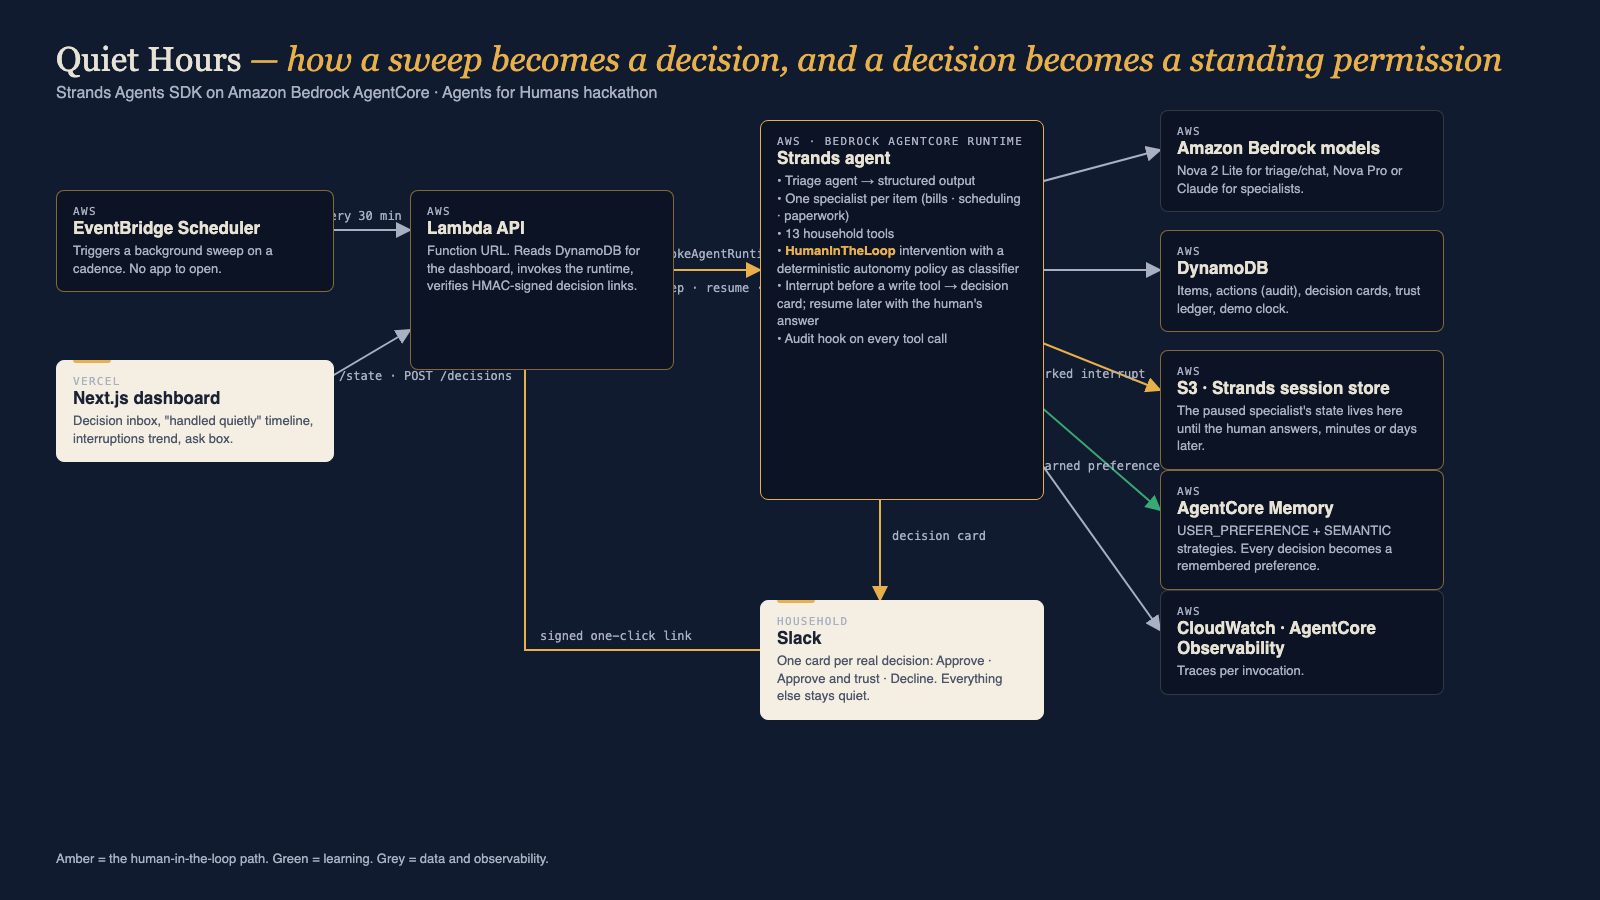
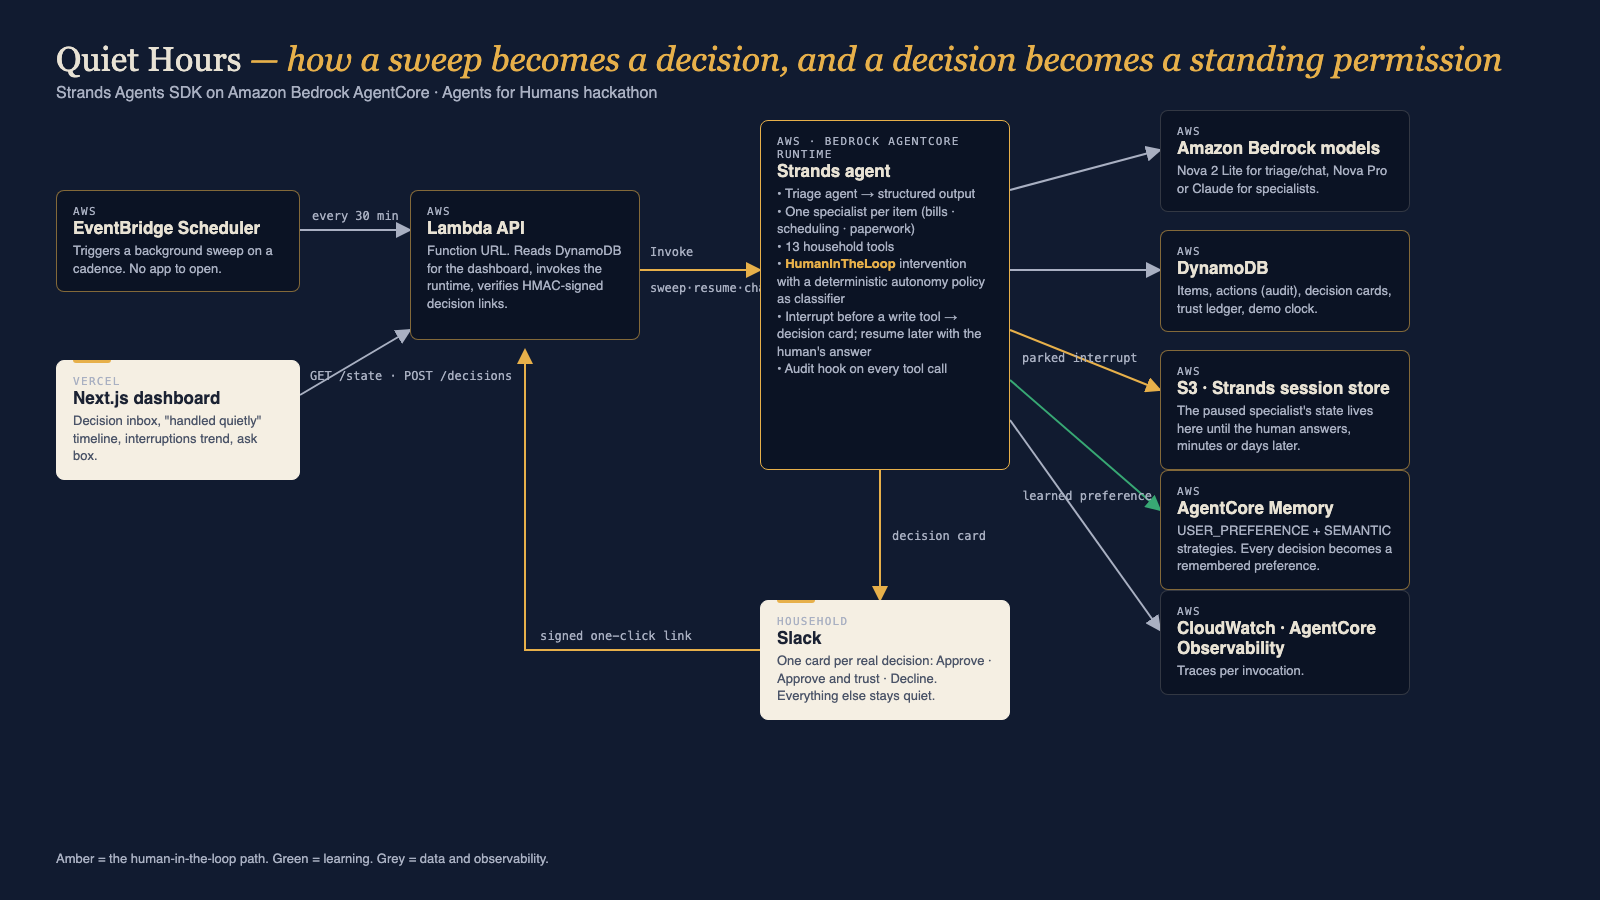
docs: architecture diagram render fixes

diff --git a/docs/diagram/architecture.html b/docs/diagram/architecture.html
@@ -5,7 +5,7 @@ body{margin:0;background:#111b30;color:#e8e2d4;font-family:"IBM Plex Sans",Helve
 h1{font-family:Georgia,serif;font-weight:500;font-size:34px;margin:0}
 h1 em{color:#e7b04a;font-style:italic}
 .sub{color:#a9b0c2;margin:6px 0 0;font-size:16px}
-.box{position:absolute;border:1px solid rgba(232,226,212,.18);border-radius:8px;padding:14px 16px;background:#0b1324}
+.box{position:absolute;box-sizing:border-box;border:1px solid rgba(232,226,212,.18);border-radius:8px;padding:14px 16px;background:#0b1324}
 .box b{display:block;font-size:17px;margin-bottom:4px}
 .box span{color:#a9b0c2;font-size:13px;line-height:1.35;display:block}
 .paper{background:#f5efe3;color:#1b2233;border-color:#f5efe3}
@@ -27,19 +27,19 @@ text{fill:#a9b0c2;font-family:"IBM Plex Mono",Menlo,monospace;font-size:12px}
  <marker id="ah" markerWidth="8" markerHeight="8" refX="7" refY="4" orient="auto"><path d="M0,0 L8,4 L0,8 z" fill="#e7b04a"/></marker>
  <marker id="ag" markerWidth="8" markerHeight="8" refX="7" refY="4" orient="auto"><path d="M0,0 L8,4 L0,8 z" fill="#38a874"/></marker></defs>
  <!-- scheduler -> lambda -->
- <path class="l" d="M300,230 L410,230" marker-end="url(#a)"/><text x="315" y="220">every 30 min</text>
+ <path class="l" d="M300,230 L410,230" marker-end="url(#a)"/><text x="312" y="220">every 30 min</text>
  <!-- dashboard -> lambda -->
  <path class="l" d="M300,395 L410,330" marker-end="url(#a)"/><text x="310" y="380">GET /state · POST /decisions</text>
  <!-- lambda -> runtime -->
- <path class="l hot" d="M640,270 L760,270" marker-end="url(#ah)"/><text x="648" y="258">InvokeAgentRuntime</text><text x="648" y="292">sweep · resume · chat</text>
+ <path class="l hot" d="M640,270 L760,270" marker-end="url(#ah)"/><text x="650" y="256">Invoke</text><text x="650" y="292">sweep·resume·chat</text>
  <!-- runtime -> bedrock -->
  <path class="l" d="M1010,190 L1160,150" marker-end="url(#a)"/>
  <!-- runtime -> dynamodb -->
  <path class="l" d="M1010,270 L1160,270" marker-end="url(#a)"/>
  <!-- runtime -> s3 -->
- <path class="l hot" d="M1010,330 L1160,390" marker-end="url(#ah)"/><text x="1030" y="378">parked interrupt</text>
+ <path class="l hot" d="M1010,330 L1160,390" marker-end="url(#ah)"/><text x="1022" y="362">parked interrupt</text>
  <!-- runtime -> memory -->
- <path class="l ok" d="M1010,380 L1160,510" marker-end="url(#ag)"/><text x="1030" y="470">learned preference</text>
+ <path class="l ok" d="M1010,380 L1160,510" marker-end="url(#ag)"/><text x="1022" y="500">learned preference</text>
  <!-- runtime -> observability -->
  <path class="l" d="M1010,420 L1160,630" marker-end="url(#a)"/>
  <!-- runtime -> slack -->
